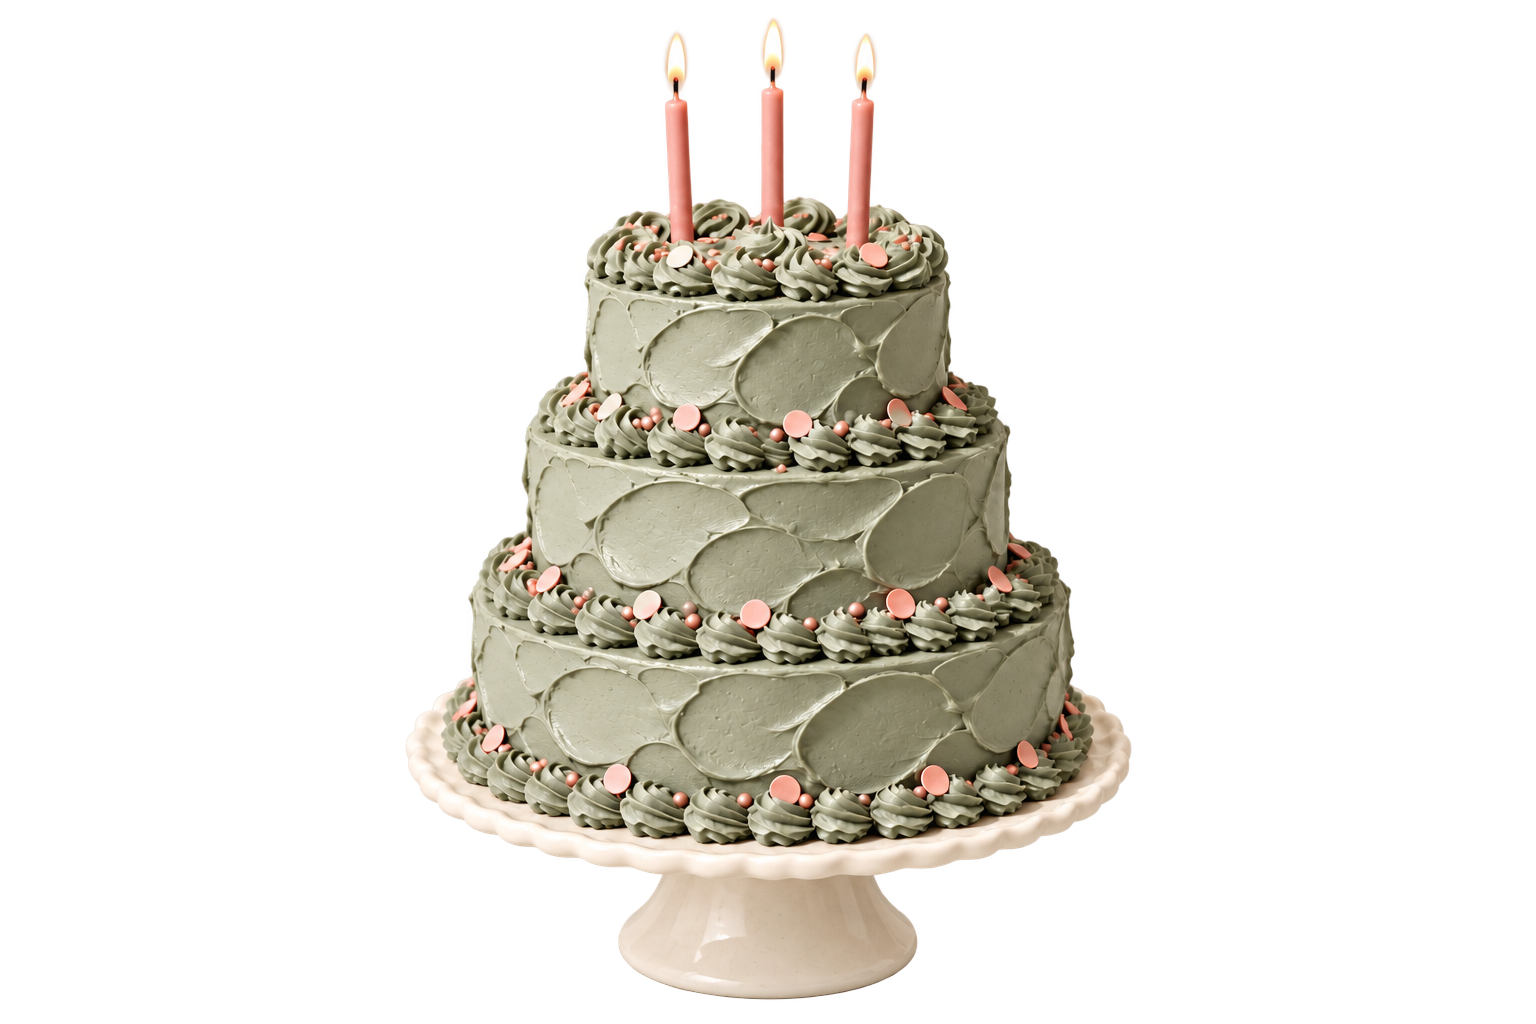
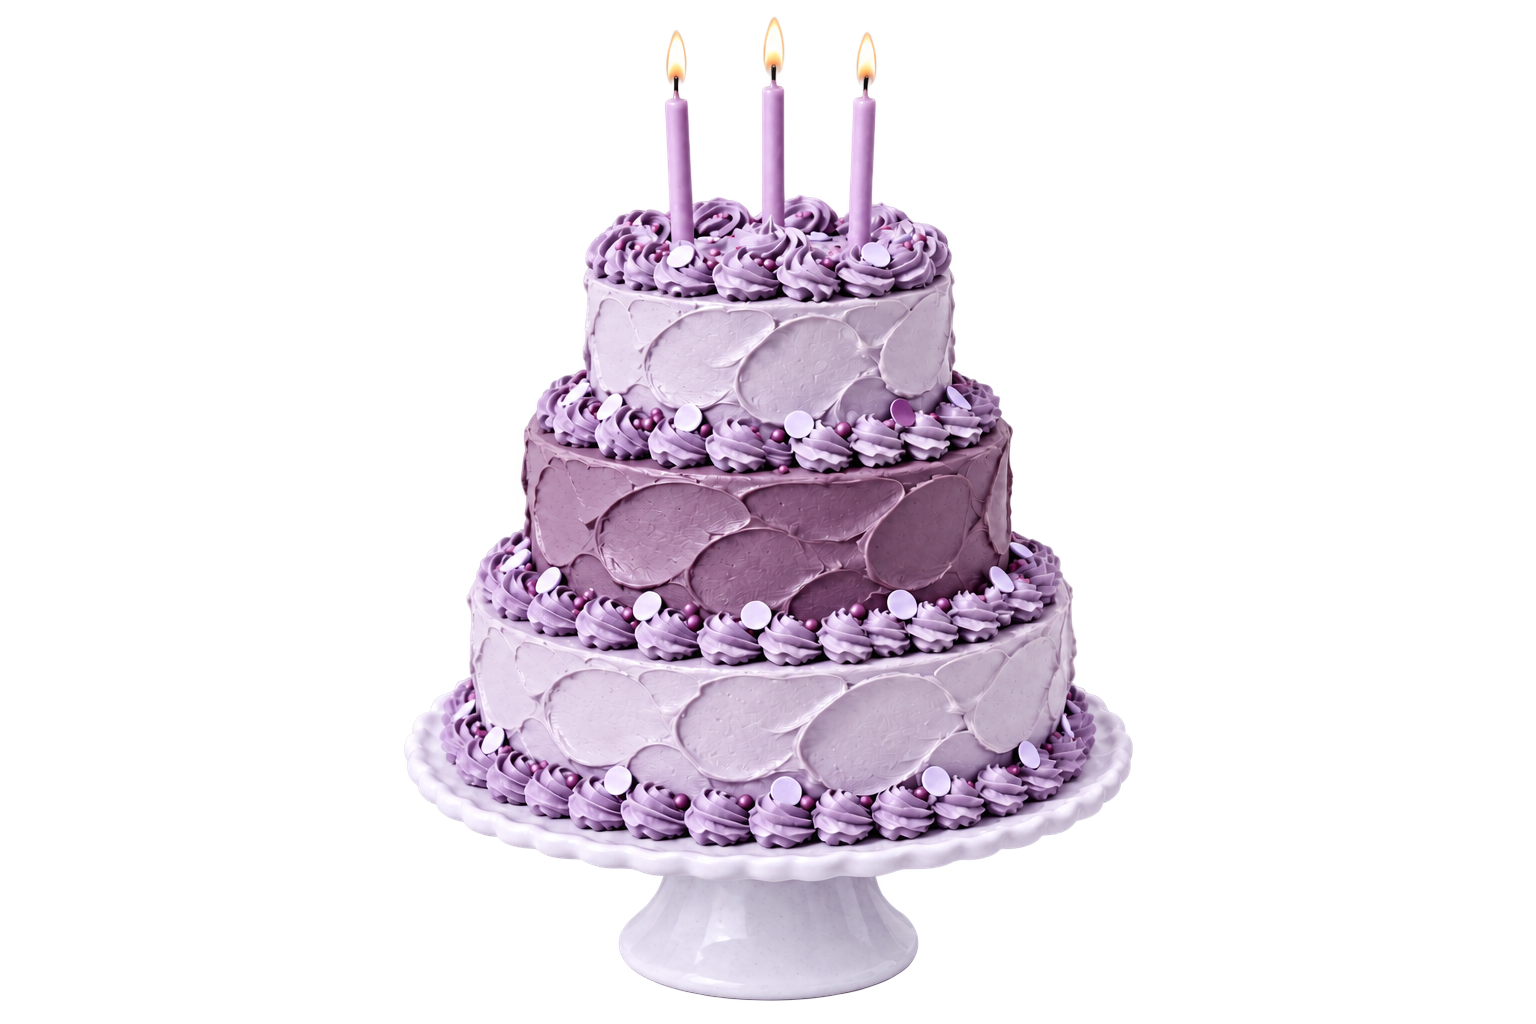
feat: apply The Herta purple birthday palette

Changed region(s): [[0.25, 0.0312, 0.75, 1.0]]

diff --git a/app.css b/app.css
@@ -1,12 +1,12 @@
 :root {
   color-scheme: light dark;
-  --page: #f3f2eb;
-  --surface: #eeeee7;
-  --ink: #3c4038;
-  --muted: #676c62;
-  --line: rgb(60 64 56 / 14%);
-  --accent: #6b7656;
-  --accent-strong: #5c664a;
+  --page: #f2eff8;
+  --surface: #ebe6f3;
+  --ink: #393344;
+  --muted: #665f72;
+  --line: rgb(57 51 68 / 14%);
+  --accent: #8063a6;
+  --accent-strong: #694c90;
   --radius: 22px;
   font-family: "Avenir Next", Avenir, ui-rounded, system-ui, sans-serif;
   font-synthesis: none;
@@ -47,11 +47,11 @@ h1, h2, p { margin-top: 0; }
 h1 { max-width: 620px; margin-bottom: 22px; font-size: clamp(50px, 6.5vw, 82px); font-weight: 800; letter-spacing: -.075em; line-height: .99; }
 h1 span { color: var(--accent); }
 .hero-intro { max-width: 370px; margin-bottom: 27px; color: var(--muted); font-size: 17px; line-height: 1.65; }
-.primary-link { display: inline-flex; align-items: center; min-height: 50px; padding: 0 21px; border-radius: 999px; background: var(--accent); color: #fff; font-size: 12px; font-weight: 750; text-decoration: none; box-shadow: 0 8px 18px rgb(68 75 58 / 12%); transition: background 160ms ease, transform 160ms ease, box-shadow 160ms ease; }
-.primary-link:hover { background: var(--accent-strong); transform: translateY(-2px); box-shadow: 0 12px 22px rgb(68 75 58 / 15%); }
+.primary-link { display: inline-flex; align-items: center; min-height: 50px; padding: 0 21px; border-radius: 999px; background: var(--accent); color: #fff; font-size: 12px; font-weight: 750; text-decoration: none; box-shadow: 0 8px 18px rgb(78 58 108 / 12%); transition: background 160ms ease, transform 160ms ease, box-shadow 160ms ease; }
+.primary-link:hover { background: var(--accent-strong); transform: translateY(-2px); box-shadow: 0 12px 22px rgb(78 58 108 / 15%); }
 .primary-link:active, .wish-button:active, .music-toggle:active { transform: scale(.98); }
 .hero-art { margin: 0; position: relative; border-radius: var(--radius); }
-.hero-art img { display: block; width: 100%; height: auto; aspect-ratio: 1.5; object-fit: cover; border-radius: var(--radius); box-shadow: 0 24px 55px rgb(67 72 61 / 10%); }
+.hero-art img { display: block; width: 100%; height: auto; aspect-ratio: 1.5; object-fit: cover; border-radius: var(--radius); box-shadow: 0 24px 55px rgb(76 55 114 / 10%); }
 
 .note-page { min-height: calc(100svh - 154px); display: flex; align-items: center; background: var(--surface); }
 .story-layout { position: relative; padding-block: clamp(72px, 11vh, 118px); display: grid; grid-template-columns: minmax(0, .82fr) minmax(0, 1.18fr); align-items: center; gap: clamp(44px, 10vw, 150px); }
@@ -74,11 +74,11 @@ h1 span { color: var(--accent); }
 .footer span:first-child { color: var(--ink); font-weight: 800; }
 
 @media (prefers-color-scheme: dark) {
-  :root { --page: #353830; --surface: #3b3e37; --ink: #c8cabe; --muted: #b0b3a9; --line: rgb(200 202 190 / 14%); --accent: #a6ae92; --accent-strong: #b6bea3; }
-  .primary-link { color: #353830; box-shadow: 0 8px 18px rgb(15 17 13 / 14%); }
-  .primary-link:hover { background: #b6bea3; }
-  .hero-art img { box-shadow: 0 24px 55px rgb(15 17 13 / 16%); }
-  .story-content .primary-link { color: #353830; }
+  :root { --page: #2c2735; --surface: #362f40; --ink: #e9e2f2; --muted: #c1b8cf; --line: rgb(233 226 242 / 14%); --accent: #b7a2d9; --accent-strong: #cbb9e8; }
+  .primary-link { color: #302a39; box-shadow: 0 8px 18px rgb(13 9 21 / 18%); }
+  .primary-link:hover { background: #cbb9e8; }
+  .hero-art img { box-shadow: 0 24px 55px rgb(13 9 21 / 18%); }
+  .story-content .primary-link { color: #302a39; }
 }
 
 @media (max-width: 900px) {

diff --git a/tests/page.test.js b/tests/page.test.js
@@ -74,7 +74,7 @@ test('music and wish controls are accessible and Motion is pinned locally', () =
     assert.match(pages[file], /id="music-toggle"[^>]*aria-label=/i);
     assert.match(pages[file], /<script src="vendor\/motion\.js" defer><\/script>/i);
     assert.doesNotMatch(pages[file], /<script[^>]+src="https?:\/\//i);
-    assert.match(pages[file], /<script src="app\.js\?v=9" defer><\/script>/i);
+    assert.match(pages[file], /<script src="app\.js\?v=10" defer><\/script>/i);
   }
   assert.equal(packageJson.dependencies.motion, '14.5.0');
   assert.ok(fs.statSync(path.join(root, 'vendor', 'motion.js')).size > 1000);
@@ -87,8 +87,9 @@ test('pages support dark mode, reduced motion, and plain visible text', () => {
   assert.match(css, /prefers-color-scheme:\s*dark/);
   assert.match(css, /prefers-reduced-motion:\s*reduce/);
   assert.doesNotMatch(Object.values(pages).join('\n'), /Xola|[^\x00-\x7F]/i);
-  assert.match(css, /--page:\s*#f3f2eb/i);
-  assert.match(css, /--accent:\s*#6b7656/i);
+  assert.match(css, /--page:\s*#f2eff8/i);
+  assert.match(css, /--accent:\s*#8063a6/i);
+  assert.match(pages['index.html'], /lavender, violet, and plum frosting/i);
   assert.match(js, /song\.play\(\)/);
   assert.match(js, /wishStatus\.textContent/);
 });
@@ -121,6 +122,7 @@ test('reduced motion preference skips the Motion animations', () => {
 });
 
 test('dark colors stay muted and the mobile header keeps music beside the wordmark', () => {
-  assert.match(css, /@media \(prefers-color-scheme:\s*dark\)\s*\{\s*:root\s*\{[^}]*--page:\s*#353830/i);
+  assert.match(css, /@media \(prefers-color-scheme:\s*dark\)\s*\{\s*:root\s*\{[^}]*--page:\s*#2c2735/i);
+  assert.match(css, /@media \(prefers-color-scheme:\s*dark\)\s*\{\s*:root\s*\{[^}]*--accent:\s*#b7a2d9/i);
   assert.match(css, /@media \(max-width:\s*760px\)\s*\{[\s\S]*?\.music-toggle\s*\{[^}]*grid-area:\s*music;/i);
 });

diff --git a/index.html b/index.html
@@ -3,13 +3,14 @@
   <head>
     <meta charset="utf-8" />
     <meta name="viewport" content="width=device-width, initial-scale=1" />
-    <meta name="theme-color" content="#f3f2eb" />
+    <meta name="theme-color" content="#f2eff8" media="(prefers-color-scheme: light)" />
+    <meta name="theme-color" content="#2c2735" media="(prefers-color-scheme: dark)" />
     <meta name="description" content="A birthday surprise made just for Aidil." />
     <title>Happy Birthday, Aidil</title>
     <link rel="preload" as="image" href="aidil-birthday.png?v=11" />
-    <link rel="stylesheet" href="app.css?v=9" />
+    <link rel="stylesheet" href="app.css?v=10" />
     <script src="vendor/motion.js" defer></script>
-    <script src="app.js?v=9" defer></script>
+    <script src="app.js?v=10" defer></script>
   </head>
   <body>
     <header class="topbar">
@@ -32,7 +33,7 @@
           <a class="primary-link" href="note.html?v=9">Dibaca ya pantek</a>
         </div>
         <figure class="hero-art">
-          <img src="aidil-birthday.png?v=11" alt="A three-tier birthday cake with sage and cream frosting and candles" width="1536" height="1024" />
+          <img src="aidil-birthday.png?v=12" alt="A three-tier birthday cake with lavender, violet, and plum frosting and candles" width="1536" height="1024" />
         </figure>
       </section>
     </main>

diff --git a/note.html b/note.html
@@ -3,12 +3,13 @@
   <head>
     <meta charset="utf-8" />
     <meta name="viewport" content="width=device-width, initial-scale=1" />
-    <meta name="theme-color" content="#f3f2eb" />
+    <meta name="theme-color" content="#f2eff8" media="(prefers-color-scheme: light)" />
+    <meta name="theme-color" content="#2c2735" media="(prefers-color-scheme: dark)" />
     <meta name="description" content="A birthday note for Aidil." />
     <title>A Birthday Note for Aidil</title>
-    <link rel="stylesheet" href="app.css?v=9" />
+    <link rel="stylesheet" href="app.css?v=10" />
     <script src="vendor/motion.js" defer></script>
-    <script src="app.js?v=9" defer></script>
+    <script src="app.js?v=10" defer></script>
   </head>
   <body>
     <header class="topbar">

diff --git a/app.js b/app.js
@@ -82,7 +82,7 @@ if (wishButton) {
     if (motion && !reduceMotion) {
       motion.animate(wishStatus, { opacity: [0.5, 1], y: [8, 0] }, { duration: 0.4, ease: [0.16, 1, 0.3, 1] });
 
-      const colors = ['#b3bd9d', '#c9b5aa', '#e1dfd4', '#aab39d', '#d4cec1'];
+      const colors = ['#8b70b2', '#b9a5d7', '#d9cfea', '#765b9c', '#c8b9de'];
       for (let index = 0; index < 20; index += 1) {
         const piece = document.createElement('span');
         const drift = Math.round((Math.random() - 0.5) * 130);
